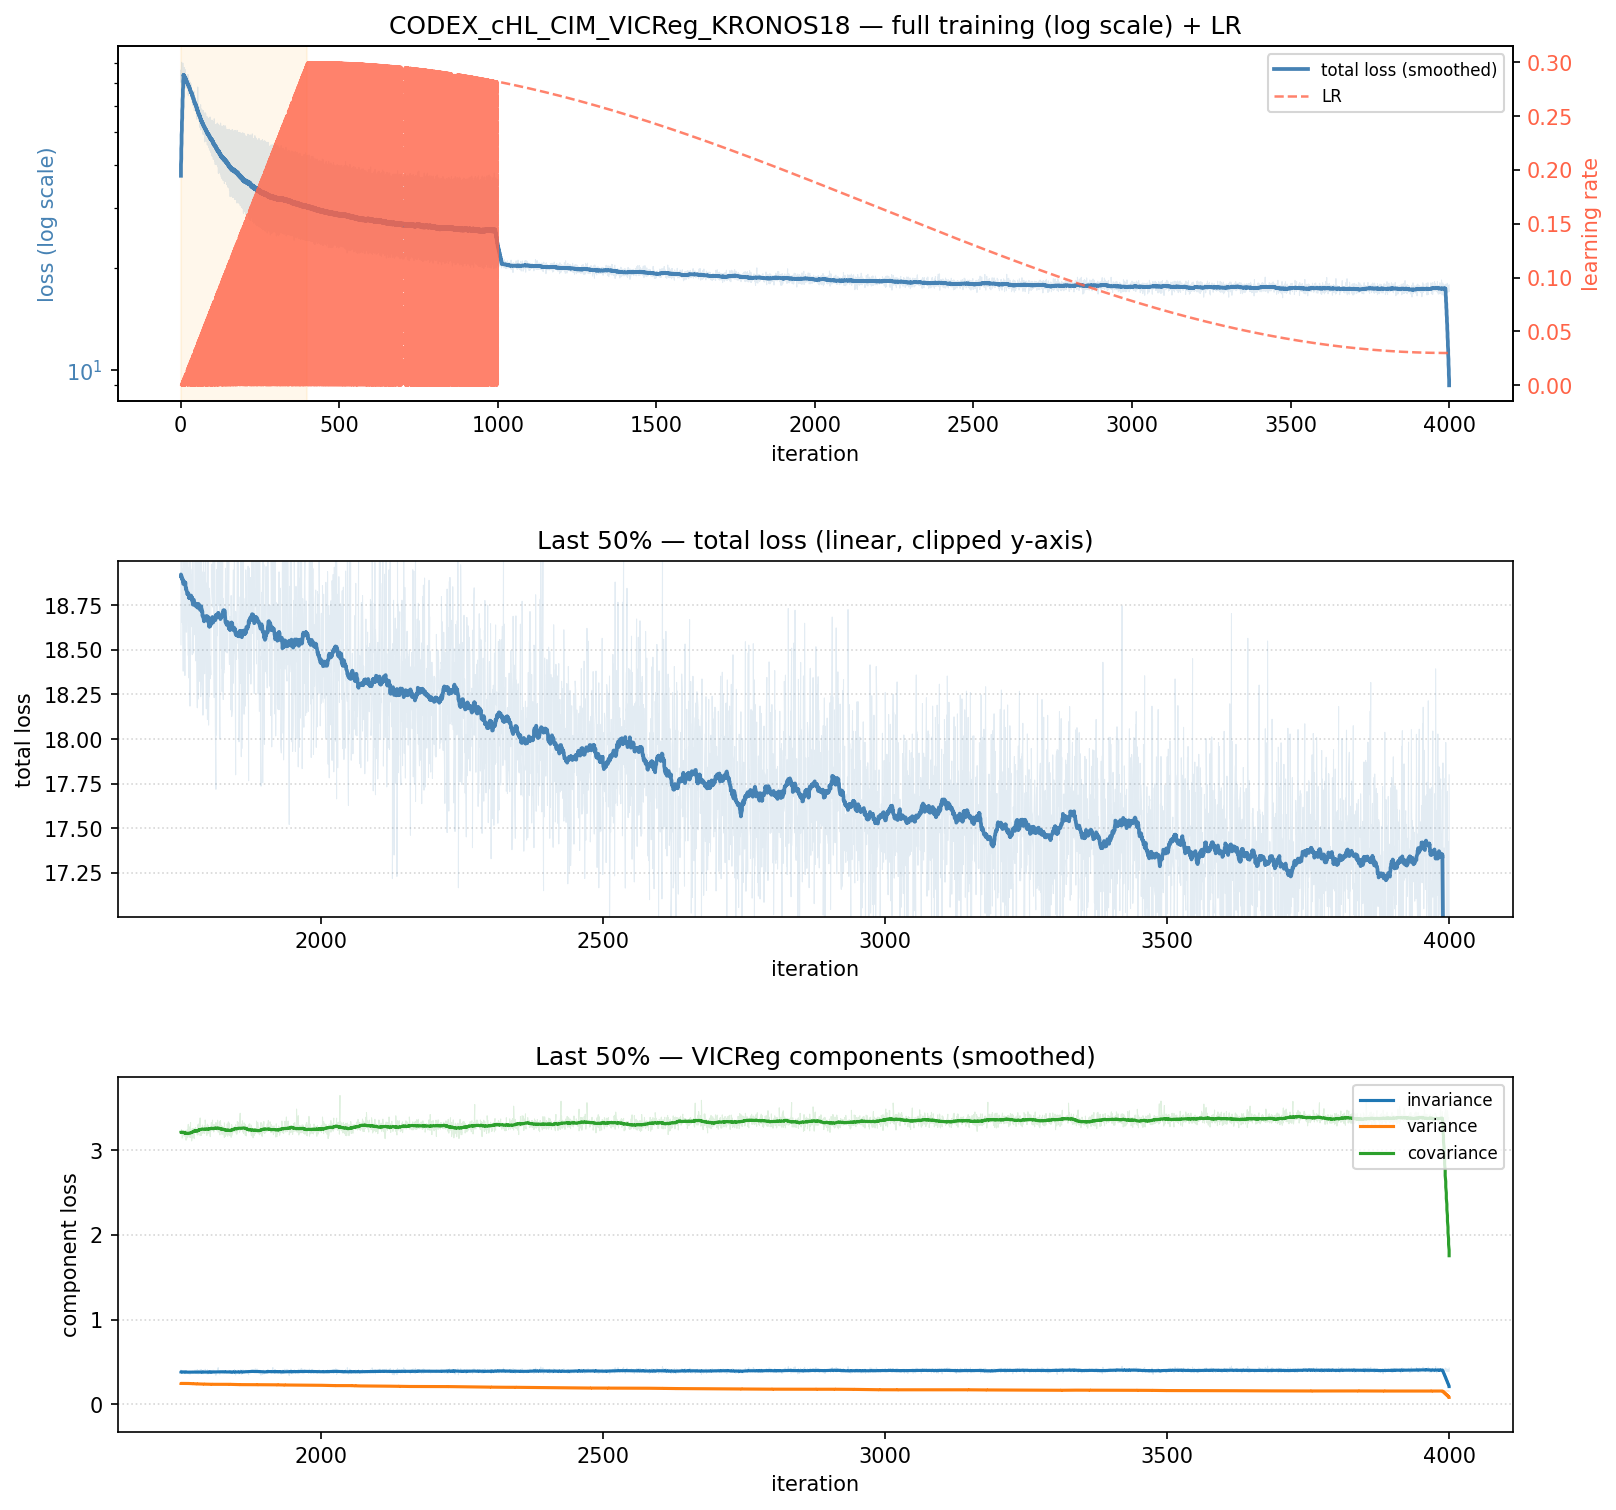
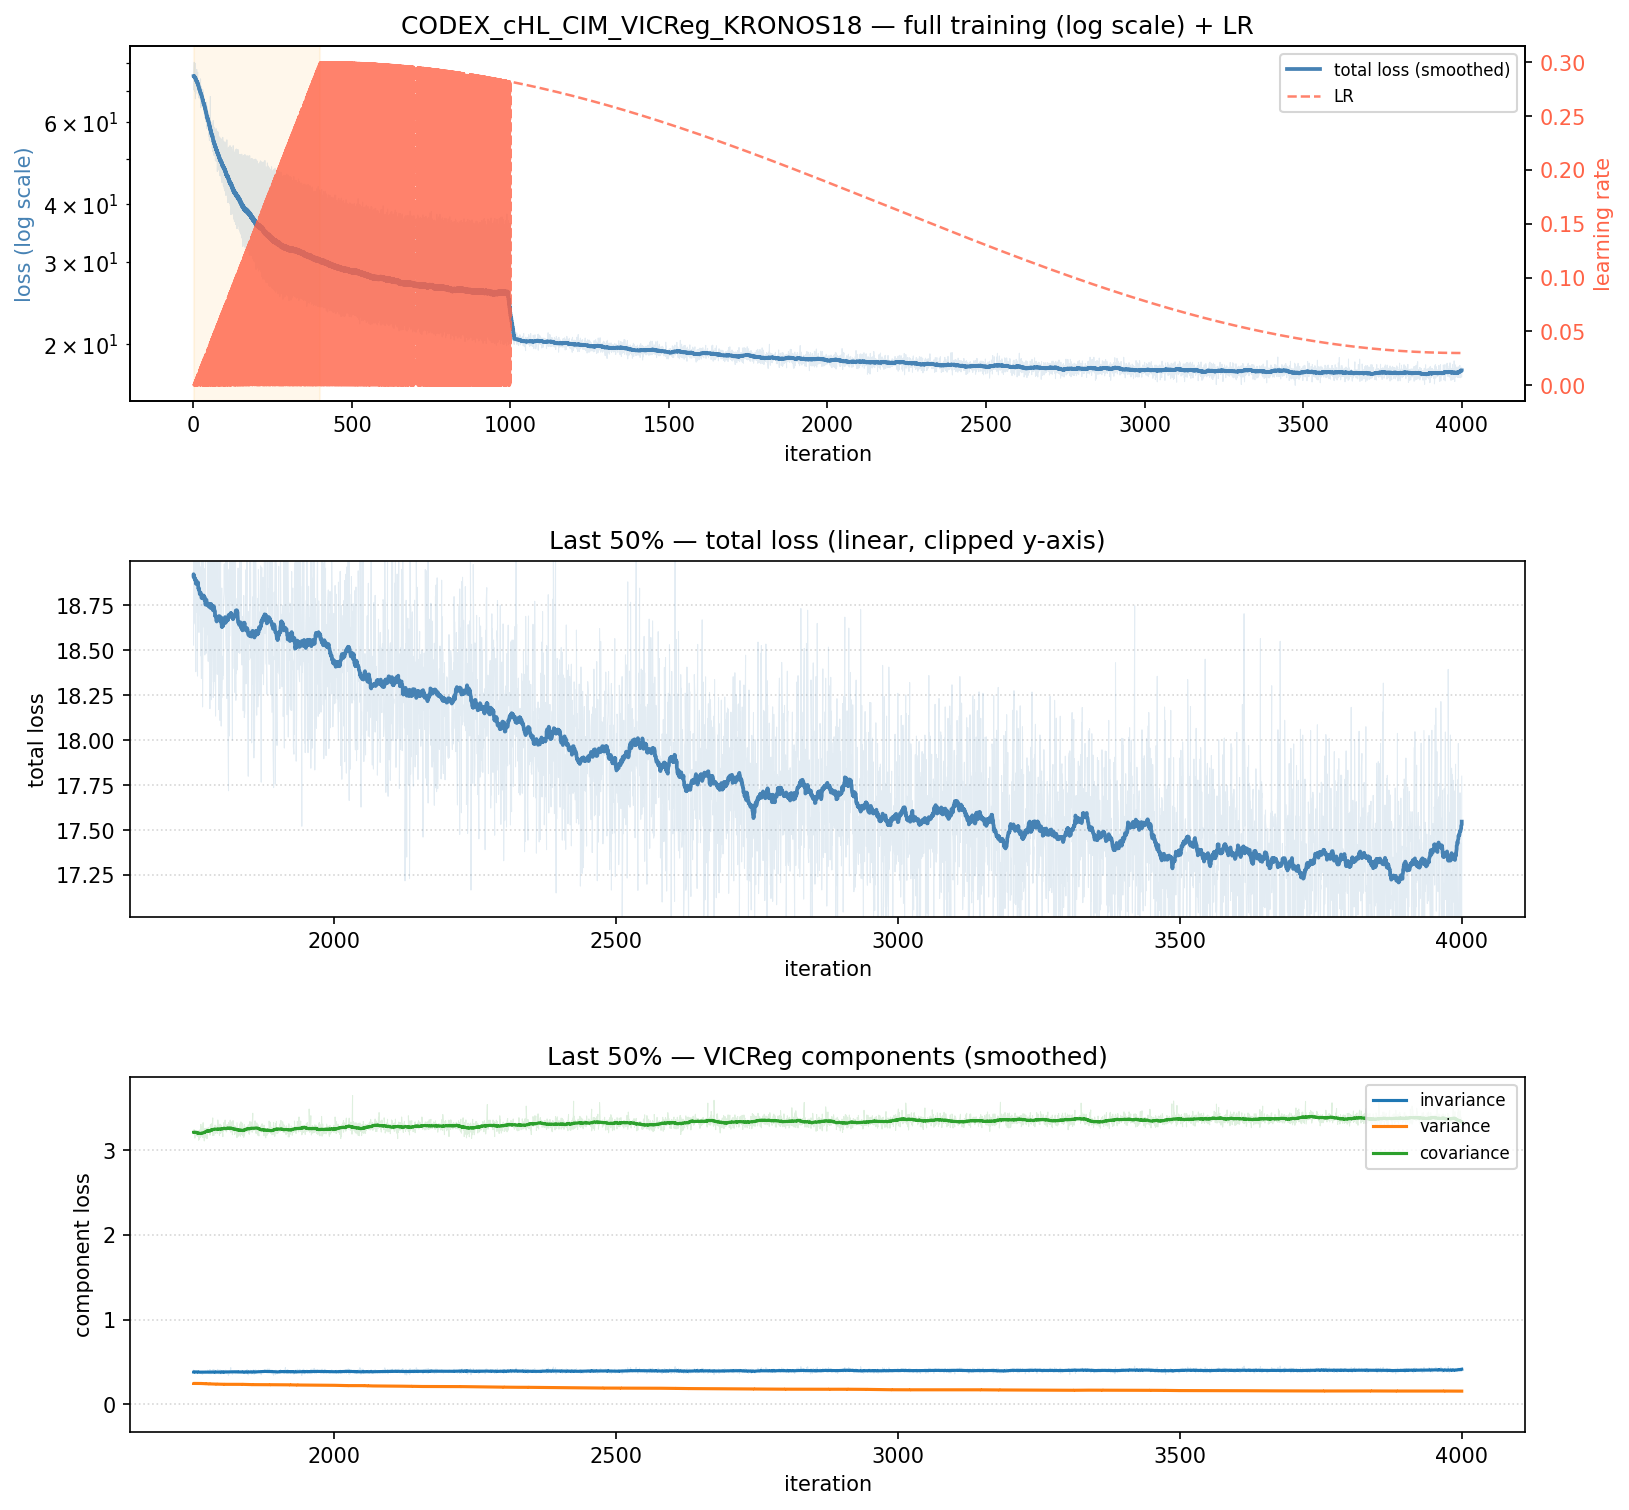
Fix smoothing edge artifact: pad with edge values instead of zeros

diff --git a/src/val_hook_rich.py b/src/val_hook_rich.py
@@ -166,7 +166,8 @@ class EvaluateModelRich(Hook):
 
         def smooth(arr, w):
             kernel = np.ones(w) / w
-            return np.convolve(arr, kernel, mode='same')
+            padded = np.pad(arr, (w // 2, w - w // 2 - 1), mode='edge')
+            return np.convolve(padded, kernel, mode='valid')
 
         loss_s     = smooth(loss,     smooth_window)
         loss_inv_s = smooth(loss_inv, smooth_window)

diff --git a/tools/plot_loss.py b/tools/plot_loss.py
@@ -17,7 +17,8 @@ import matplotlib.pyplot as plt
 
 def smooth(arr, w):
     kernel = np.ones(w) / w
-    return np.convolve(arr, kernel, mode='same')
+    padded = np.pad(arr, (w // 2, w - w // 2 - 1), mode='edge')
+    return np.convolve(padded, kernel, mode='valid')
 
 
 def plot_loss(work_dir, smooth_window=50, zoom_frac=0.5):
